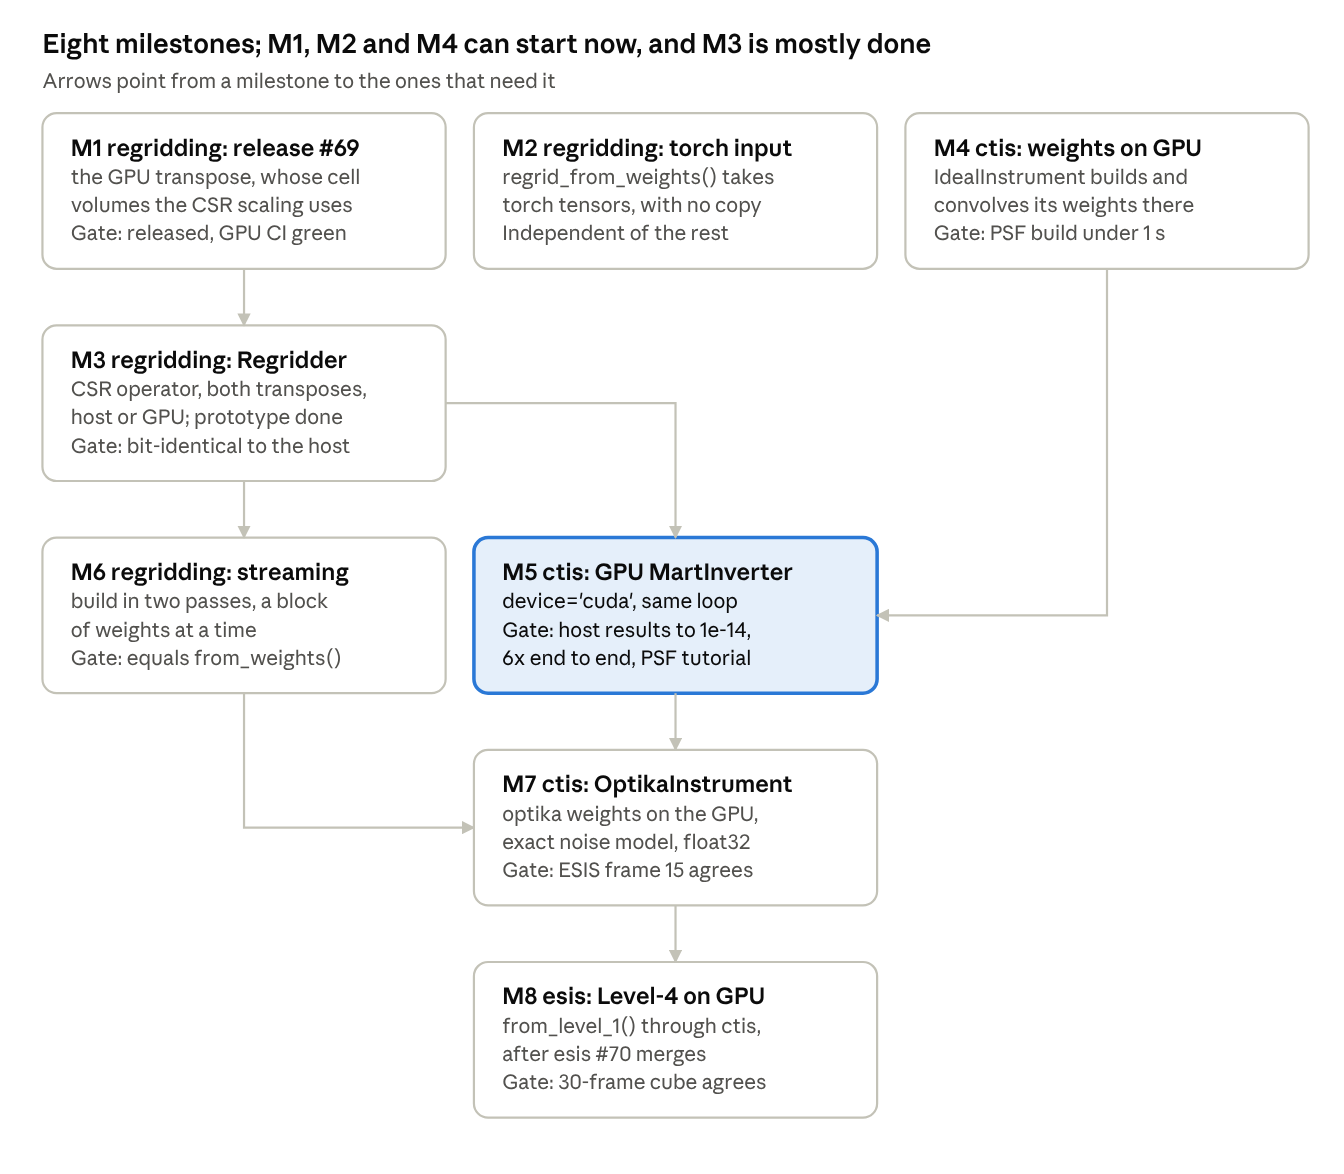
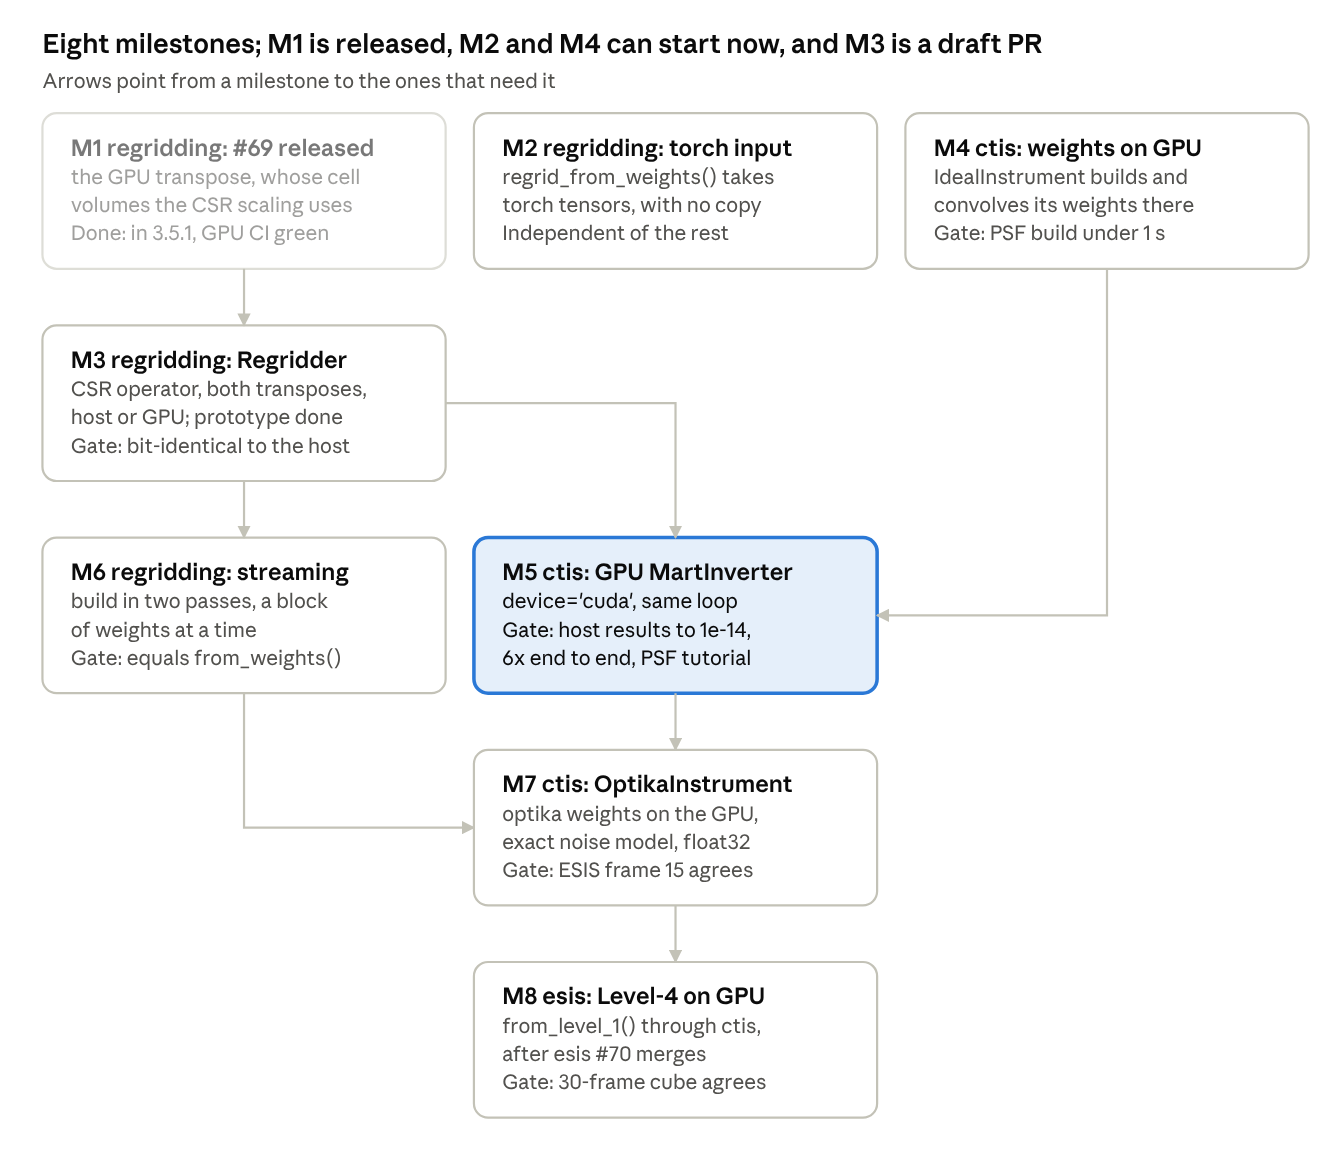
Mark M1 released and record the cuSPARSE decision in the roadmap.
regridding 3.5.1 shipped #69, so M1 is done and the Regridder no longer waits
on it.  The design now says why the Regridder keeps its own kernel rather than
cuSPARSE, the M3 gate includes matching cuSPARSE's speed, and a risk notes the
host time each GPU call spends.

Claude-Session: https://claude.ai/code/session_01GqceVSp8s2msxj1Dr9MrGU

Changed region(s): [[0.0312, 0.092, 0.2812, 0.2147], [0.2188, 0.0307, 0.7812, 0.0613]]

diff --git a/docs/roadmap/cuda-mart.rst b/docs/roadmap/cuda-mart.rst
@@ -37,12 +37,12 @@ Where things stand
         rejects :mod:`torch` tensors
     * - ``regridding.transpose_weights_conservative()`` on the device
       - `regridding #69 <https://github.com/sun-data/regridding/pull/69>`__
-      - Open, CI green, four review rounds
+      - Released in 3.5.1 on 2026-10-08
       - Conservative transposes of device weights;
         its per-grid cell volumes give the CSR operator its conservative scaling
     * - ``regridding.Regridder``
-      - `regridding #70 <https://github.com/sun-data/regridding/pull/70>`__, built on #69
-      - Draft prototype, 67 tests
+      - `regridding #70 <https://github.com/sun-data/regridding/pull/70>`__, on main
+      - Draft prototype, 79 tests, CI green
       - Every channel and wavelength in one CSR matrix,
         with broadcasting declared by shapes, exact and conservative transposes,
         and assembly on the host or GPU that agree bit for bit
@@ -178,6 +178,8 @@ only the two products and where the arrays live differ.
   Each row sums in a fixed order,
   so the host and GPU build the same matrix bit for bit,
   and an iteration is two launches instead of 160.
+  Each row is summed by as many GPU threads as an average row has entries, up to a warp,
+  so the short rows of a backprojection no longer waste most of a warp.
 - **Broadcasting declared by shapes.**
   The operator takes the shapes of the values going in and coming out.
   Where the weights vary along an axis,
@@ -223,6 +225,15 @@ only the two products and where the arrays live differ.
   CSR removes both.
   A second matrix would repeat the indices of the transpose,
   when only its values differ.
+- **Not chosen: the sparse product of** :mod:`torch` **(cuSPARSE).**
+  Its results do not repeat exactly on long rows,
+  even in the deterministic mode of :mod:`torch`,
+  and change with the batch width.
+  It cannot sum float32 entries in float64,
+  and its 64-bit row pointers force 64-bit column indices,
+  8.8 GB more per direction at ESIS scale.
+  Our kernel now takes less time than it for the two products of MART together,
+  from 17M weights up.
 
 Milestones
 ----------
@@ -230,7 +241,8 @@ Milestones
 Eight pull requests take the GPU MART from prototype to the ESIS Level-4 product.
 M5 is the first one users can run.
 The ``Regridder`` prototype already covers most of M3;
-M1, M2 and M4 can start now, M3 needs M1, and M6 needs M3.
+M1 shipped in regridding 3.5.1, M2 and M4 can start now,
+M3 is a draft pull request no longer waiting on M1, and M6 needs M3.
 
 .. figure:: cuda-mart/milestones.png
     :width: 100%
@@ -277,7 +289,9 @@ since :class:`~ctis.inverters.MartInverter` is already validated.
         bit for bit; GPU assembly equals host assembly.
         All three pass in the prototype
       - One launch per product;
-        assembly in about 0.5 s per 145M weights, as in the prototype
+        the two products together no slower than cuSPARSE from 17M weights up;
+        assembly in about 0.5 s per 145M weights.
+        The prototype meets all three
     * - M4
       - Device weights equal the host weights once the ``-1`` slots are dropped
       - The weights of the PSF tutorial in under 1 s (0.74 s in the prototype)
@@ -474,3 +488,10 @@ the rest are questions to settle before the milestone that needs them.
   Tempest stores one per forward weight, 8.8 GB at production.
   It is constant for each channel and velocity slot,
   so the product could compute it from the row and column of each entry instead.
+- **Host time per GPU call (M5).**
+  Each ``Regridder`` call spends about 0.2 ms on the host,
+  in the launch of :mod:`numba`, its array wrappers and the layout in :mod:`torch`.
+  That is why :mod:`torch` still wins a whole iteration on small problems:
+  2.7 ms against 3.4 at 256 by 256.
+  Launching without the wrappers of :mod:`numba` could cut it;
+  at ESIS scale it is negligible.
